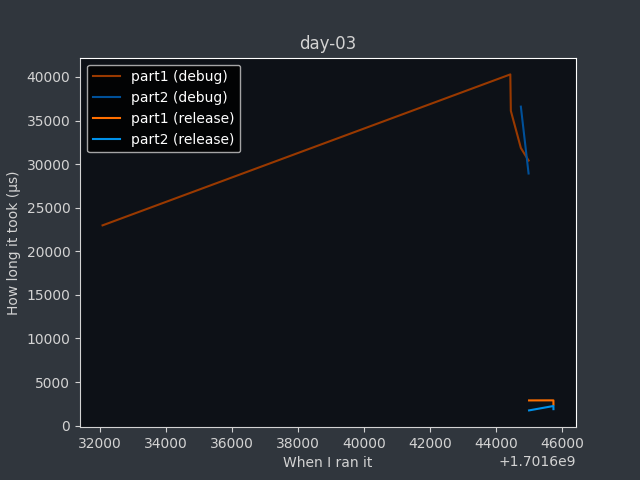
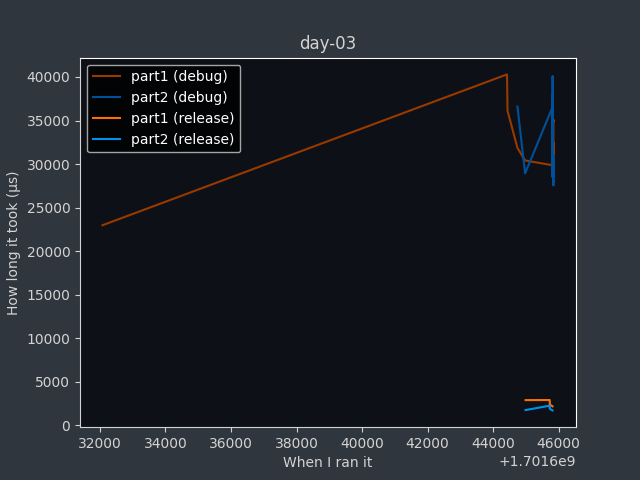
add day-03 part2 answer test, more graphing

diff --git a/2023/day-03/src/main.rs b/2023/day-03/src/main.rs
@@ -113,11 +113,11 @@ mod tests {
         assert_eq!(part1(input), 540025);
     }
 
-    // #[test]
-    // fn test_part2() {
-    //     let input = include_str!("./input.txt");
-    //     assert_eq!(part2(input), 12345);
-    // }
+    #[test]
+    fn test_part2() {
+        let input = include_str!("./input.txt");
+        assert_eq!(part2(input), 84584891);
+    }
 
     #[test]
     fn parser_1() {

diff --git a/2023/README.md b/2023/README.md
@@ -24,5 +24,5 @@
 
 | Mode | Part 1 | Part 2 |
 |--------|--------|--------|
-| Debug | 30.41 ms | 28.93 ms |
-| Release | 2.40 ms | 1.89 ms |
+| Debug | 34.94 ms | 30.91 ms |
+| Release | 2.18 ms | 1.71 ms |
